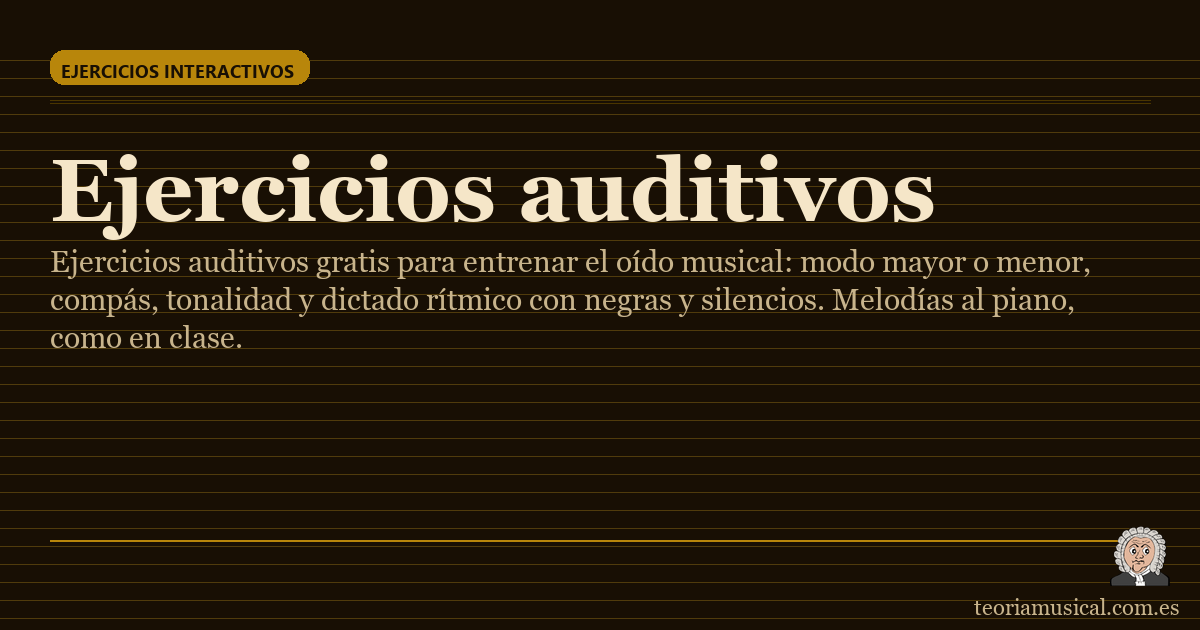
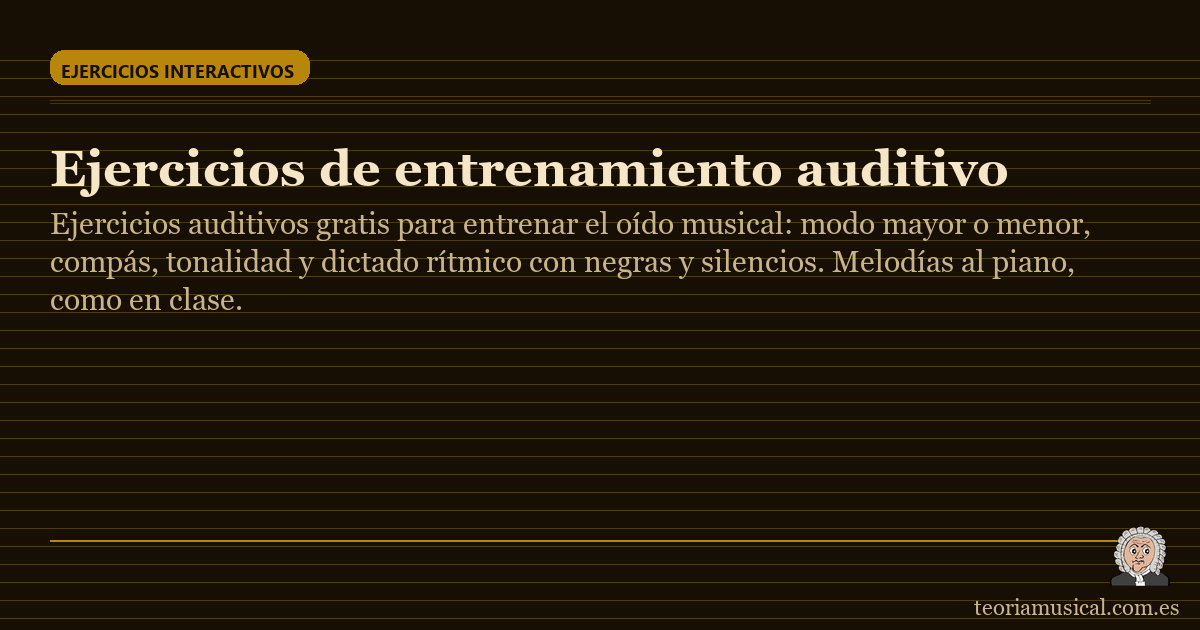
H1 y titles de los indices de ejercicios alineados con lo que se busca (auditoria SEO competitiva). Indice general: H1 «Ejercicios de teoria musical» (antes «Ejercicios musicales», que pasa a la entradilla porque tambien trae impresiones). Intervalos: H1 «Ejercicios de intervalos musicales» y «Acade

Changed region(s): [[0.0308, 0.2413, 0.8942, 0.573]]

diff --git a/ejercicios/ejercicios-de-intervalos-en-pdf/index.html b/ejercicios/ejercicios-de-intervalos-en-pdf/index.html
@@ -3,13 +3,13 @@
 <head>
 <meta charset="utf-8">
 <meta name="viewport" content="width=device-width, initial-scale=1">
-<title>Ejercicios de intervalos con soluciones</title>
+<title>Ejercicios de intervalos en PDF con soluciones</title>
 <meta name="description" content="Ejercicios de intervalos musicales con soluciones: genera los tuyos y practica en pantalla o descarga 26 fichas en PDF para imprimir, de 2ª a 8ª en clave de sol.">
 <link rel="canonical" href="https://www.teoriamusical.com.es/ejercicios/ejercicios-de-intervalos-en-pdf/">
 <!--i18n--><link rel="alternate" hreflang="es" href="https://www.teoriamusical.com.es/ejercicios/ejercicios-de-intervalos-en-pdf/">
 <link rel="alternate" hreflang="en" href="https://www.teoriamusical.com.es/en/exercises/intervals/interval-worksheets/">
 <link rel="alternate" hreflang="x-default" href="https://www.teoriamusical.com.es/ejercicios/ejercicios-de-intervalos-en-pdf/"><!--/i18n-->
-<meta property="og:title" content="Ejercicios de intervalos con soluciones">
+<meta property="og:title" content="Ejercicios de intervalos en PDF con soluciones">
 <meta property="og:description" content="Ejercicios de intervalos musicales con soluciones: genera los tuyos y practica en pantalla o descarga 26 fichas en PDF para imprimir, de 2ª a 8ª en clave de sol.">
 <meta property="og:image" content="https://www.teoriamusical.com.es/assets/img/og-pages/og-ejercicios-ejercicios-de-intervalos-en-pdf.png">
 <meta property="og:type" content="article">
@@ -18,7 +18,7 @@
 <meta property="og:site_name" content="Teoría Musical">
 <meta name="robots" content="index, follow, max-snippet:-1, max-image-preview:large, max-video-preview:-1">
 <meta name="twitter:card" content="summary_large_image">
-<meta name="twitter:title" content="Ejercicios de intervalos con soluciones">
+<meta name="twitter:title" content="Ejercicios de intervalos en PDF con soluciones">
 <meta name="twitter:description" content="Ejercicios de intervalos musicales con soluciones: genera los tuyos y practica en pantalla o descarga 26 fichas en PDF para imprimir, de 2ª a 8ª en clave de sol.">
 <meta name="twitter:image" content="https://www.teoriamusical.com.es/assets/img/og-pages/og-ejercicios-ejercicios-de-intervalos-en-pdf.png">
 <link rel="icon" href="/assets/img/favicon.png" type="image/png">
@@ -60,10 +60,10 @@
 <link rel="stylesheet" href="/assets/css/style.css?v=1757c21e">
 
 <script type="application/ld+json">
-{"@context":"https://schema.org","@type":"Article","headline":"Ejercicios de intervalos con soluciones","description":"Ejercicios de intervalos musicales con soluciones: genera los tuyos y practica en pantalla o descarga 26 fichas en PDF para imprimir, de 2ª a 8ª en clave de sol.","url":"https://www.teoriamusical.com.es/ejercicios/ejercicios-de-intervalos-en-pdf/","inLanguage":"es","isAccessibleForFree":true,"image":{"@type":"ImageObject","url":"https://www.teoriamusical.com.es/assets/img/og-pages/og-ejercicios-ejercicios-de-intervalos-en-pdf.png"},"author":{"@type":"Person","name":"Eduardo Escrig Zomeño","url":"https://www.teoriamusical.com.es/sobre-mi/"},"datePublished":"2026-09-09","dateModified":"2026-09-09","mainEntityOfPage":{"@type":"WebPage","@id":"https://www.teoriamusical.com.es/ejercicios/ejercicios-de-intervalos-en-pdf/"},"publisher":{"@type":"Organization","name":"Teoría Musical","url":"https://www.teoriamusical.com.es","logo":{"@type":"ImageObject","url":"https://www.teoriamusical.com.es/assets/img/og-diccionario.png"}}}
+{"@context":"https://schema.org","@type":"Article","headline":"Ejercicios de intervalos en PDF con soluciones","description":"Ejercicios de intervalos musicales con soluciones: genera los tuyos y practica en pantalla o descarga 26 fichas en PDF para imprimir, de 2ª a 8ª en clave de sol.","url":"https://www.teoriamusical.com.es/ejercicios/ejercicios-de-intervalos-en-pdf/","inLanguage":"es","isAccessibleForFree":true,"image":{"@type":"ImageObject","url":"https://www.teoriamusical.com.es/assets/img/og-pages/og-ejercicios-ejercicios-de-intervalos-en-pdf.png"},"author":{"@type":"Person","name":"Eduardo Escrig Zomeño","url":"https://www.teoriamusical.com.es/sobre-mi/"},"datePublished":"2026-09-09","dateModified":"2026-09-09","mainEntityOfPage":{"@type":"WebPage","@id":"https://www.teoriamusical.com.es/ejercicios/ejercicios-de-intervalos-en-pdf/"},"publisher":{"@type":"Organization","name":"Teoría Musical","url":"https://www.teoriamusical.com.es","logo":{"@type":"ImageObject","url":"https://www.teoriamusical.com.es/assets/img/og-diccionario.png"}}}
 </script>
 <script type="application/ld+json">
-{"@context":"https://schema.org","@type":"BreadcrumbList","itemListElement":[{"@type":"ListItem","position":1,"name":"Inicio","item":"https://www.teoriamusical.com.es/"},{"@type":"ListItem","position":2,"name":"Ejercicios","item":"https://www.teoriamusical.com.es/ejercicios/"},{"@type":"ListItem","position":3,"name":"Ejercicios de intervalos con soluciones","item":"https://www.teoriamusical.com.es/ejercicios/ejercicios-de-intervalos-en-pdf/"}]}
+{"@context":"https://schema.org","@type":"BreadcrumbList","itemListElement":[{"@type":"ListItem","position":1,"name":"Inicio","item":"https://www.teoriamusical.com.es/"},{"@type":"ListItem","position":2,"name":"Ejercicios","item":"https://www.teoriamusical.com.es/ejercicios/"},{"@type":"ListItem","position":3,"name":"Ejercicios de intervalos en PDF con soluciones","item":"https://www.teoriamusical.com.es/ejercicios/ejercicios-de-intervalos-en-pdf/"}]}
 </script>
 <script type="application/ld+json">
 {"@context":"https://schema.org","@type":"FAQPage","mainEntity":[{"@type":"Question","name":"¿Los ejercicios de intervalos traen las soluciones?","acceptedAnswer":{"@type":"Answer","text":"Sí. Cada ficha tiene su propio PDF de soluciones con la misma maqueta que la hoja del alumno y la respuesta escrita en rojo, así que se corrige superponiendo las dos hojas. En las fichas de analizar la solución indica la especie y la dirección (3ª M ascendente, 3ª m descendente…); en las de escribir aparece dibujada la nota correcta."}},{"@type":"Question","name":"¿Qué diferencia hay entre las fichas de un intervalo y las acumulativas?","acceptedAnswer":{"@type":"Answer","text":"En las de un solo intervalo todos los ejercicios son del mismo número (todo terceras, todo quintas), así que solo hay que determinar la especie. En las acumulativas los números van mezclados por niveles: 2ª y 3ª, después hasta la 4ª, hasta la 5ª… hasta la 8ª. Ahí el alumno tiene que contar primero cuántas posiciones abarca cada intervalo, que es el paso que se salta cuando toda la hoja es del mismo número."}},{"@type":"Question","name":"¿Sirven para principiantes o hay que saber alteraciones?","acceptedAnswer":{"@type":"Answer","text":"Sirven desde el principio. Casi la mitad de cada hoja son intervalos de notas naturales, sin ningún sostenido ni bemol, y además ascendentes: solo hay que contar líneas y espacios. Las alteraciones aparecen en la segunda mitad, y nunca hay dobles sostenidos ni dobles bemoles."}},{"@type":"Question","name":"¿En qué clave están escritos los ejercicios?","acceptedAnswer":{"@type":"Answer","text":"Todos en clave de sol, y todos los intervalos son melódicos (las dos notas van una detrás de otra, no simultáneas). Las notas se mueven entre el La3 y el La5, con dos líneas adicionales como máximo."}},{"@type":"Question","name":"¿Cuántos ejercicios tiene cada hoja?","acceptedAnswer":{"@type":"Answer","text":"Cuarenta y dos intervalos por hoja, repartidos en siete pentagramas de seis ejercicios, en una sola cara de A4. Ningún ejercicio repite el mismo par de notas dentro de la misma ficha."}},{"@type":"Question","name":"¿Puedo fotocopiarlas para mis alumnos?","acceptedAnswer":{"@type":"Answer","text":"Sí, el uso en el aula es libre: puedes imprimirlas, fotocopiarlas y repartirlas en clase o mandarlas para casa. Solo te pedimos que no las republiques como propias en otra web."}}]}
@@ -183,11 +183,11 @@
 
   <nav class="tm-breadcrumb" aria-label="Migas">
     <div class="tm-container">
-      <a href="/">Inicio</a><span class="tm-crumb-sep">›</span><a href="/ejercicios/">Ejercicios</a><span class="tm-crumb-sep">›</span><span aria-current="page">Ejercicios de intervalos con soluciones</span>
+      <a href="/">Inicio</a><span class="tm-crumb-sep">›</span><a href="/ejercicios/">Ejercicios</a><span class="tm-crumb-sep">›</span><span aria-current="page">Ejercicios de intervalos en PDF con soluciones</span>
     </div>
   </nav>
 
-<header class="tm-page-header"><div class="tm-container"><h1>Ejercicios de intervalos con soluciones</h1></div></header>
+<header class="tm-page-header"><div class="tm-container"><h1>Ejercicios de intervalos en PDF con soluciones</h1></div></header>
 <div class="tm-container tm-article-wrap">
   <article class="tm-article">
 

diff --git a/ejercicios/auditivos/index.html b/ejercicios/auditivos/index.html
@@ -3,13 +3,13 @@
 <head>
 <meta charset="utf-8">
 <meta name="viewport" content="width=device-width, initial-scale=1">
-<title>Ejercicios Auditivos Online | Teoría Musical</title>
+<title>Ejercicios de Entrenamiento Auditivo Online | Teoría Musical</title>
 <meta name="description" content="Ejercicios auditivos gratis para entrenar el oído musical: modo mayor o menor, compás, tonalidad y dictado rítmico con negras y silencios. Melodías al piano, como en clase.">
 <link rel="canonical" href="https://www.teoriamusical.com.es/ejercicios/auditivos/">
 <!--i18n--><link rel="alternate" hreflang="es" href="https://www.teoriamusical.com.es/ejercicios/auditivos/">
 <link rel="alternate" hreflang="en" href="https://www.teoriamusical.com.es/en/exercises/ear-training/">
 <link rel="alternate" hreflang="x-default" href="https://www.teoriamusical.com.es/ejercicios/auditivos/"><!--/i18n-->
-<meta property="og:title" content="Ejercicios Auditivos Online | Teoría Musical">
+<meta property="og:title" content="Ejercicios de Entrenamiento Auditivo Online | Teoría Musical">
 <meta property="og:description" content="Ejercicios auditivos gratis para entrenar el oído musical: modo mayor o menor, compás, tonalidad y dictado rítmico con negras y silencios. Melodías al piano, como en clase.">
 <meta property="og:image" content="https://www.teoriamusical.com.es/assets/img/og-pages/og-ejercicios-auditivos.png">
 <meta property="og:type" content="article">
@@ -18,7 +18,7 @@
 <meta property="og:site_name" content="Teoría Musical">
 <meta name="robots" content="index, follow, max-snippet:-1, max-image-preview:large, max-video-preview:-1">
 <meta name="twitter:card" content="summary_large_image">
-<meta name="twitter:title" content="Ejercicios Auditivos Online | Teoría Musical">
+<meta name="twitter:title" content="Ejercicios de Entrenamiento Auditivo Online | Teoría Musical">
 <meta name="twitter:description" content="Ejercicios auditivos gratis para entrenar el oído musical: modo mayor o menor, compás, tonalidad y dictado rítmico con negras y silencios. Melodías al piano, como en clase.">
 <meta name="twitter:image" content="https://www.teoriamusical.com.es/assets/img/og-pages/og-ejercicios-auditivos.png">
 <link rel="icon" href="/assets/img/favicon.png" type="image/png">
@@ -60,7 +60,7 @@
 <link rel="stylesheet" href="/assets/css/style.css?v=1757c21e">
 
 <script type="application/ld+json">
-{"@context": "https://schema.org", "@type": "Article", "headline": "Ejercicios auditivos", "description": "Ejercicios auditivos gratis para entrenar el oído musical: modo mayor o menor, compás, tonalidad y dictado rítmico con negras y silencios. Melodías al piano, como en clase.", "url": "https://www.teoriamusical.com.es/ejercicios/auditivos/", "inLanguage": "es", "isAccessibleForFree": true, "image": {"@type": "ImageObject", "url": "https://www.teoriamusical.com.es/assets/img/og-pages/og-ejercicios-auditivos.png"}, "author": {"@type": "Person", "name": "Eduardo Escrig Zomeño", "url": "https://www.teoriamusical.com.es/sobre-mi/"}, "datePublished": "2026-11-01", "dateModified": "2026-11-04", "mainEntityOfPage": {"@type": "WebPage", "@id": "https://www.teoriamusical.com.es/ejercicios/auditivos/"}, "publisher": {"@type": "Organization", "name": "Teoría Musical", "url": "https://www.teoriamusical.com.es", "logo": {"@type": "ImageObject", "url": "https://www.teoriamusical.com.es/assets/img/og-diccionario.png"}}}
+{"@context": "https://schema.org", "@type": "Article", "headline": "Ejercicios de entrenamiento auditivo", "description": "Ejercicios auditivos gratis para entrenar el oído musical: modo mayor o menor, compás, tonalidad y dictado rítmico con negras y silencios. Melodías al piano, como en clase.", "url": "https://www.teoriamusical.com.es/ejercicios/auditivos/", "inLanguage": "es", "isAccessibleForFree": true, "image": {"@type": "ImageObject", "url": "https://www.teoriamusical.com.es/assets/img/og-pages/og-ejercicios-auditivos.png"}, "author": {"@type": "Person", "name": "Eduardo Escrig Zomeño", "url": "https://www.teoriamusical.com.es/sobre-mi/"}, "datePublished": "2026-11-01", "dateModified": "2026-11-04", "mainEntityOfPage": {"@type": "WebPage", "@id": "https://www.teoriamusical.com.es/ejercicios/auditivos/"}, "publisher": {"@type": "Organization", "name": "Teoría Musical", "url": "https://www.teoriamusical.com.es", "logo": {"@type": "ImageObject", "url": "https://www.teoriamusical.com.es/assets/img/og-diccionario.png"}}}
 </script>
 <script type="application/ld+json">
 {"@context": "https://schema.org", "@type": "BreadcrumbList", "itemListElement": [{"@type": "ListItem", "position": 1, "name": "Inicio", "item": "https://www.teoriamusical.com.es/"}, {"@type": "ListItem", "position": 2, "name": "Ejercicios", "item": "https://www.teoriamusical.com.es/ejercicios/"}, {"@type": "ListItem", "position": 3, "name": "Ejercicios auditivos", "item": "https://www.teoriamusical.com.es/ejercicios/auditivos/"}]}
@@ -187,7 +187,7 @@
     </div>
   </nav>
 
-<header class="tm-page-header"><div class="tm-container"><h1>Ejercicios auditivos</h1></div></header>
+<header class="tm-page-header"><div class="tm-container"><h1>Ejercicios de entrenamiento auditivo</h1></div></header>
 <div class="tm-container tm-article-wrap">
   <article class="tm-article">
 

diff --git a/tools/en/pages/home.js b/tools/en/pages/home.js
@@ -36,8 +36,8 @@ module.exports = {
     <div class="tm-hero-derecha">
       <div class="tm-hero-card">
         <p class="tm-hero-card-label">★ New in English</p>
-        <h2 class="tm-hero-card-titulo">Dictionary, metronome and 31 tuners</h2>
-        <p class="tm-hero-card-desc">The site started in Spanish. Each section is being rewritten in English, not machine-translated. The exercises and the games are next; for now they are in Spanish only.</p>
+        <h2 class="tm-hero-card-titulo">Dictionary, exercises, games and tools</h2>
+        <p class="tm-hero-card-desc">The site started in Spanish. Each section is being rewritten in English, not machine-translated. The music dictionary, the exercises, the games, the metronome and the 31 tuners are already available in English.</p>
       </div>
     </div>
   </div>

diff --git a/en/index.html b/en/index.html
@@ -185,8 +185,8 @@
     <div class="tm-hero-derecha">
       <div class="tm-hero-card">
         <p class="tm-hero-card-label">★ New in English</p>
-        <h2 class="tm-hero-card-titulo">Dictionary, metronome and 31 tuners</h2>
-        <p class="tm-hero-card-desc">The site started in Spanish. Each section is being rewritten in English, not machine-translated. The exercises and the games are next; for now they are in Spanish only.</p>
+        <h2 class="tm-hero-card-titulo">Dictionary, exercises, games and tools</h2>
+        <p class="tm-hero-card-desc">The site started in Spanish. Each section is being rewritten in English, not machine-translated. The music dictionary, the exercises, the games, the metronome and the 31 tuners are already available in English.</p>
       </div>
     </div>
   </div>

diff --git a/ejercicios/index.html b/ejercicios/index.html
@@ -213,8 +213,8 @@
 }
 </style>
 
-<h1>Ejercicios musicales</h1>
-<p>Ejercicios interactivos de teoría musical <strong>ordenados de lo básico a lo avanzado</strong>: empieza por las notas y el ritmo, y sigue con los intervalos, las escalas, las tonalidades y los acordes. Muchos tienen además ficha en PDF con soluciones para imprimir.</p>
+<h1>Ejercicios de teoría musical</h1>
+<p>Ejercicios musicales interactivos <strong>ordenados de lo básico a lo avanzado</strong>: empieza por las notas y el ritmo, y sigue con los intervalos, las escalas, las tonalidades y los acordes. Muchos tienen además ficha en PDF con soluciones para imprimir.</p>
 
   <section class="ej-cards">
 

diff --git a/ejercicios/tonalidades/index.html b/ejercicios/tonalidades/index.html
@@ -194,7 +194,7 @@
     </div>
   </nav>
   
-<header class="tm-page-header"><div class="tm-container"><h1>Tonalidades</h1></div></header>
+<header class="tm-page-header"><div class="tm-container"><h1>Ejercicios de tonalidades y armaduras</h1></div></header>
 <div class="tm-container tm-article-wrap">
   <article class="tm-article">
     
